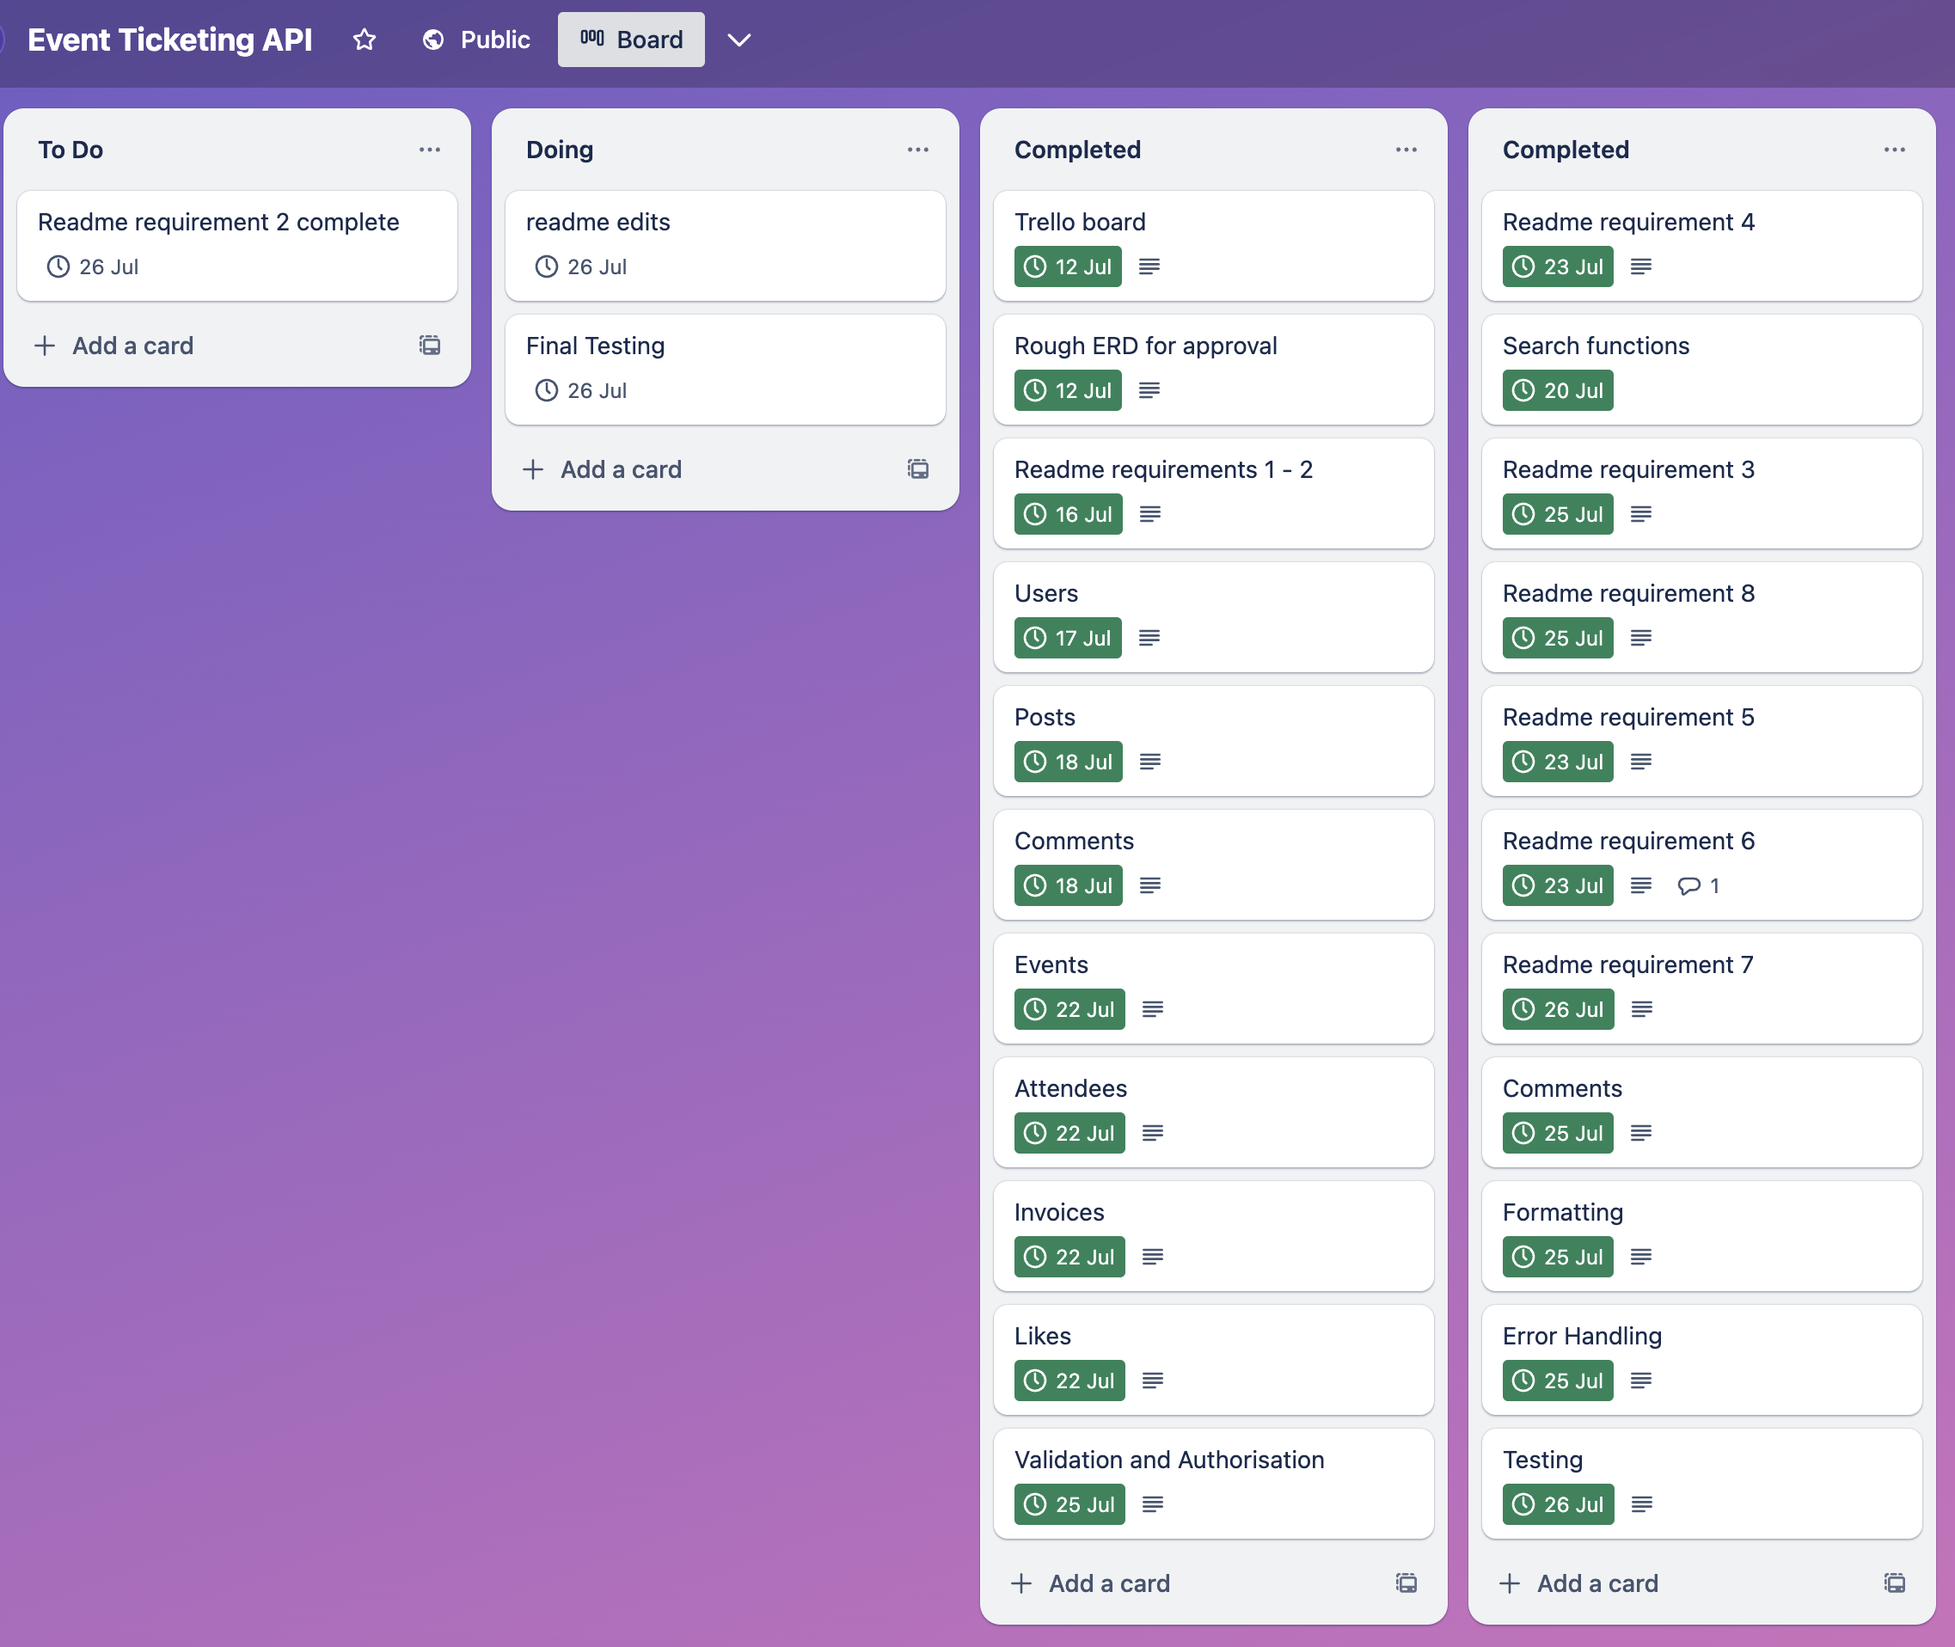
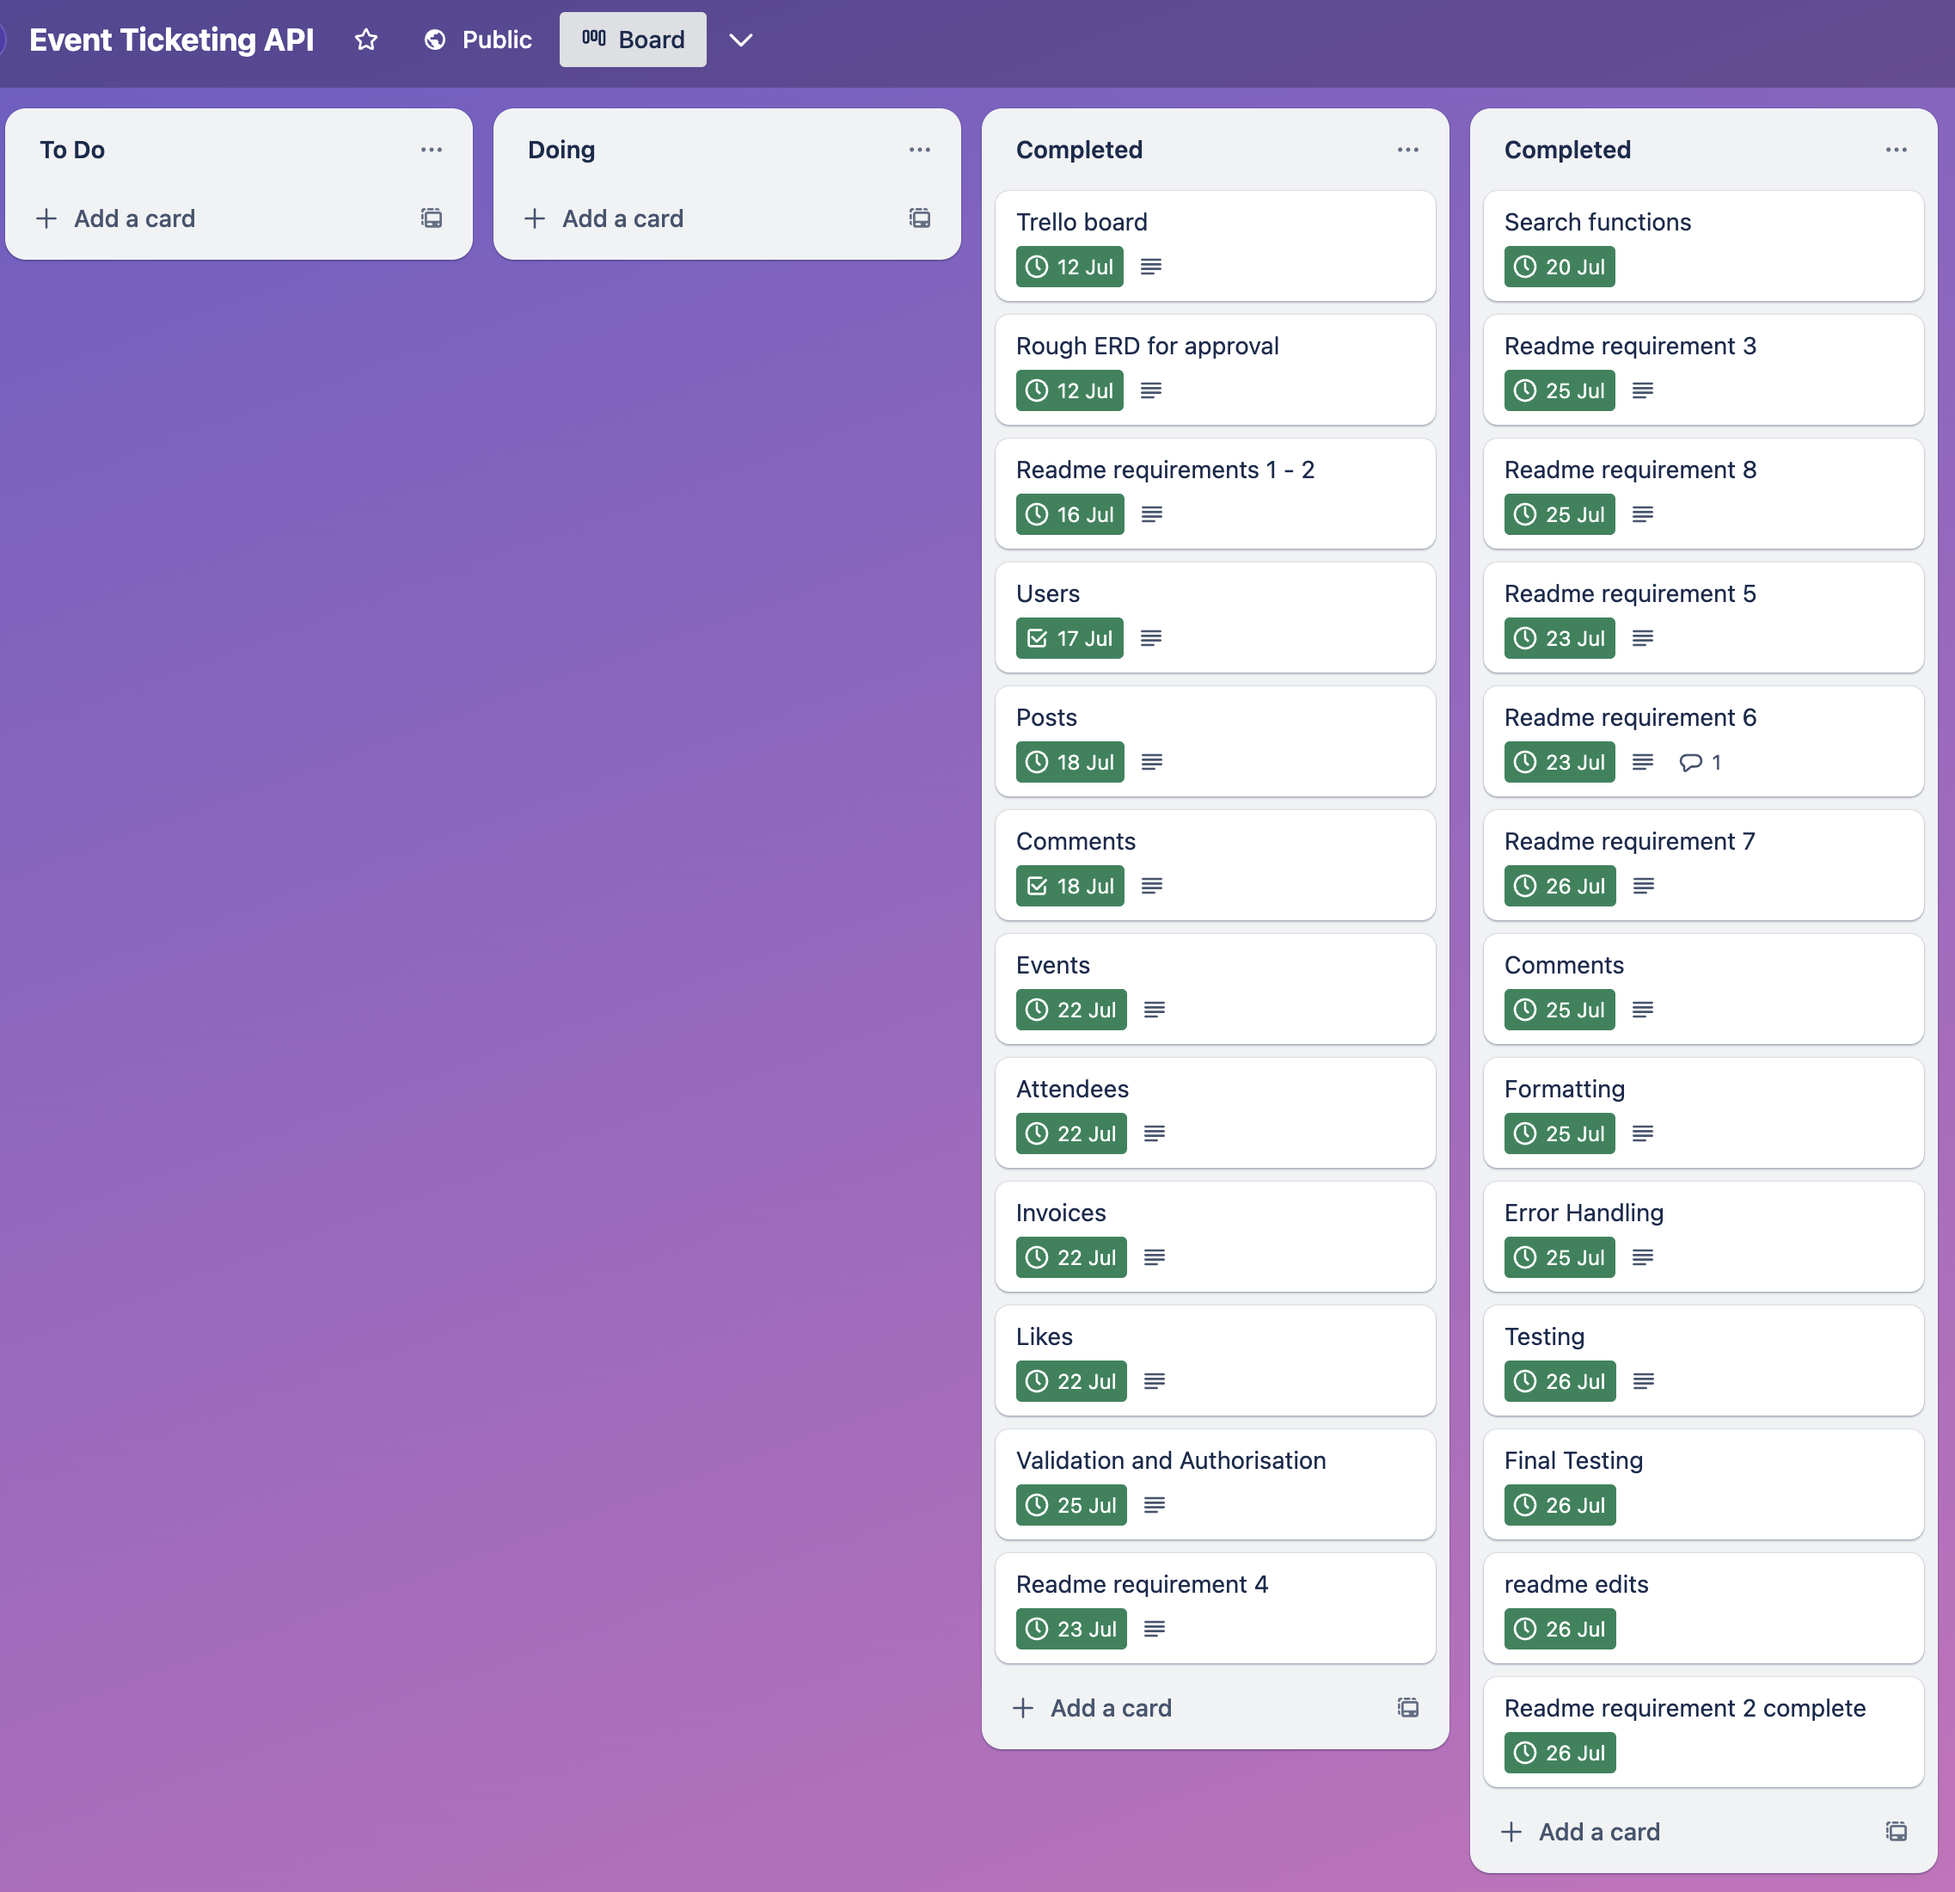
finished readme edits and final testing

diff --git a/models/event.py b/models/event.py
@@ -1,11 +1,9 @@
 # External Libraries
-from marshmallow import fields
+from marshmallow import fields,validate
 from marshmallow.validate import Regexp, Length, And
 
 # Imports from local files
 from init import db, ma
-from models.attending import Attending
-from models.invoice import Invoice
 
 # Table model class for the events table in the DB
 
@@ -28,7 +26,7 @@ class Event(db.Model):
         ticket_price = db.Column(db.Float, default=0.00)
 
         # Foreign Keys
-        # Event admin ID column - Foreign key referencing the ID attribute 
+        # Event admin ID column - Foreign key referencing the ID attribute
         # from the users table
         # Cannot be null because an event must be associated with a user
         event_admin_id = db.Column(
@@ -37,7 +35,7 @@ class Event(db.Model):
         # Relationships
         # Link to the User model - An event is associated with a single user
         user = db.relationship("User", back_populates="events")
-        # Link to the Attending model - An event can have multiple 
+        # Link to the Attending model - An event can have multiple
         # attending records
         attending = db.relationship(
             "Attending", back_populates="event", cascade="all, delete")
@@ -48,7 +46,7 @@ class Event(db.Model):
         # Handle unexpected errors
         print(str(e)), 500
 
-# Schema instance from Marshmallow - Convert DB objects to 
+# Schema instance from Marshmallow - Convert DB objects to
 # Python objects and vice versa
 
 
@@ -61,7 +59,8 @@ class EventSchema(ma.Schema):
         attending = fields.List(fields.Nested("AttendingSchema", only=[
                                 "event_id", "seat_section", "total_tickets", "user"]))
         # An event can have multiple invoices (list)
-        invoice = fields.List(fields.Nested("InvoiceSchema", only=["total_cost"]))
+        invoice = fields.List(fields.Nested(
+            "InvoiceSchema", only=["total_cost"]))
 
         # Validation
         # Title column - String data type and cannot be null
@@ -75,30 +74,28 @@ class EventSchema(ma.Schema):
         ))
         # Description column - String data type and cannot be null
         description = fields.String(validate=And(
-        # Description must be less than 400 characters long
-        Length(max=400, error="Event description must be less than 400 characters long"),
-        # Description must contain alphanumeric characters only
-        Regexp("^[A-Za-z0-9 ]+$",
-               error="Event description must contain alphanumeric characters only")
+            # Description must be less than 400 characters long
+            Length(
+                max=400, error="Event description must be less than 400 characters long"),
+            # Description must contain alphanumeric characters only
+            Regexp("^[A-Za-z0-9 ]+$",
+                   error="Event description must contain alphanumeric characters only")
         ))
         # Date column - Date data value
-        date = fields.String(validate=# Date must be written as dd/mm/yyyy only
-                            Regexp(
-                                r"^(0?[1-9]|[12][0-9]|3[01])[\/\-](0?[1-9]|1[012])[\/\-]\d{4}$", 
-                                error="Date must be written as dd/mm/yyyy only")
-        )
+        date = fields.String(validate=  # Date must be written as dd/mm/yyyy only
+                             Regexp(
+                                 r"^(0?[1-9]|[12][0-9]|3[01])[\/\-](0?[1-9]|1[012])[\/\-]\d{4}$",
+                                 error="Date must be written as dd/mm/yyyy only")
+                             )
         # Ticket price column - Float data type
-        ticket_price = fields.Float(validate=And(
-            # Ticket price must be greater than or equal to 0.00
-            Regexp(r"^[0-9]\d*(\.\d+)?$", 
-                   error="Ticket price must be a positive number")
-        ))
+        ticket_price = fields.Float(validate=validate.Range(min=0.0,
+                                                            error="Ticket price must be a positive number"))
 
         # Meta class to define the fields to be included in the schema
         class Meta:
             # Fields to be included in the schema
             fields = ("id", "title", "description", "date", "ticket_price",
-                    "event_admin_id", "user", "attending", "invoice")
+                      "event_admin_id", "user", "attending", "invoice")
     except Exception as e:
         # Handle unexpected errors
         print(str(e)), 500

diff --git a/models/invoice.py b/models/invoice.py
@@ -1,9 +1,8 @@
 # External Libraries
-from marshmallow import fields
+from marshmallow import fields, validate
 
 # Imports from local files
 from init import db, ma
-from marshmallow.validate import Regexp, And
 
 # Table model class for the invoices table in the DB
 
@@ -55,13 +54,9 @@ class InvoiceSchema(ma.Schema):
         attending = fields.Nested("AttendingSchema", only=[
                                 "seat_section", "total_tickets", "user"])
         
-        # Validation
-        # Ticket price column - Float data type
-        total_cost = fields.Float(validate=And(
-            # Total cost must be greater than or equal to 0.00
-            Regexp(r"^[0-9]\d*(\.\d+)?$", 
-                   error="Total cost must be a positive number")
-        ))
+        # Total cost column - Float data type with a default value of 0.00
+        total_cost = fields.Float(validate=validate.Range(min=0.0,
+                                                            error="Total cost must be a positive number"))
 
         # Meta class to define the fields to be included in the schema
         class Meta:

diff --git a/controllers/attending_controller.py b/controllers/attending_controller.py
@@ -18,7 +18,7 @@ attending_bp = Blueprint("attending", __name__,
 # Register the invoice blueprint within the attending blueprint
 attending_bp.register_blueprint(invoice_bp)
 
-# No need to fetch all attending all events, only fetch all attending 
+# No need to fetch all attending all events, only fetch all attending
 # a specific event
 
 # GET - Fetch all attendees for a specific event
@@ -39,7 +39,7 @@ def fetch_event_attending(event_id):
     if not event_exists:
         return {"error": f"Event with id '{event_id}' does not exist."}, 404
 
-    # Query to select attendees for the event, ordered by timestamp in 
+    # Query to select attendees for the event, ordered by timestamp in
     # descending order
     stmt = db.select(Attending).filter_by(
         event_id=event_id).order_by(Attending.timestamp.desc())

diff --git a/controllers/post_controller.py b/controllers/post_controller.py
@@ -10,7 +10,6 @@ from init import db
 from controllers.comment_controller import comments_bp
 from controllers.like_controller import likes_bp
 from models.post import Post, post_schema, posts_schema
-from models.user import User
 from utils import authorise_as_admin
 
 # Create a Blueprint for post-related routes

diff --git a/controllers/user_controller.py b/controllers/user_controller.py
@@ -3,7 +3,6 @@ from datetime import timedelta
 
 # External Libraries
 from flask import Blueprint, request
-from sqlalchemy.exc import IntegrityError
 from flask_jwt_extended import jwt_required, get_jwt_identity
 from psycopg2 import errorcodes
 from flask_jwt_extended import create_access_token

diff --git a/controllers/invoice_controller.py b/controllers/invoice_controller.py
@@ -3,7 +3,7 @@ from datetime import datetime
 
 # External Libraries
 from flask import Blueprint, request
-from flask_jwt_extended import jwt_required, get_jwt_identity
+from flask_jwt_extended import jwt_required
 
 # Imports from local files
 from init import db

diff --git a/controllers/like_controller.py b/controllers/like_controller.py
@@ -2,7 +2,7 @@
 from datetime import datetime
 
 # External Libraries
-from flask import Blueprint, request
+from flask import Blueprint
 from flask_jwt_extended import jwt_required, get_jwt_identity
 
 # Imports from local files

diff --git a/models/user.py b/models/user.py
@@ -4,7 +4,6 @@ from marshmallow.validate import Regexp, Length, And
 
 # Imports from local files
 from init import db, ma
-from models.like import Like
 
 
 # Create model class extended from the SQLAlchemy model class

diff --git a/models/attending.py b/models/attending.py
@@ -5,7 +5,7 @@ from marshmallow.exceptions import ValidationError
 
 # Imports from local files
 from init import db, ma
-from models.user import User
+
 
 # Constants
 # Define valid seat sections

diff --git a/controllers/event_controller.py b/controllers/event_controller.py
@@ -1,5 +1,4 @@
 # Built-in Python Libraries
-from datetime import datetime
 
 # External Libraries
 from flask import Blueprint, request

diff --git a/readme.md b/readme.md
@@ -208,7 +208,9 @@ Completed the in-code commenting and formatting to pep8 style guidelines, contin
 
 * Thursday the 25th of July '24 update
 
-Completed the error handling for all routes and classes, completed testing all routes, and started working on the final readme edits and final testing of every route error path. 
+Completed unknown error handling for all routes and classes, completed testing all routes, completed readme edits and requirement 2. 
+
+***API Assignment Complete!***
 
 <img src="DOCS/trello_25:7.png" alt="Trello 25th July" width="60%"/>
 
